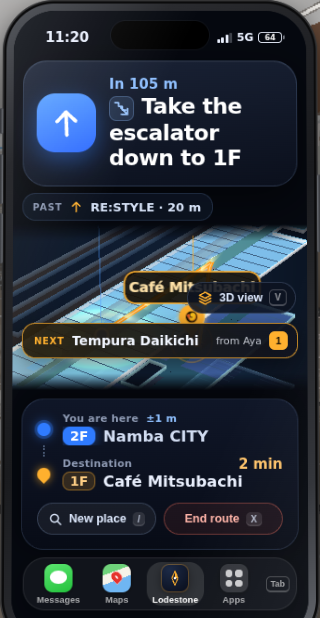
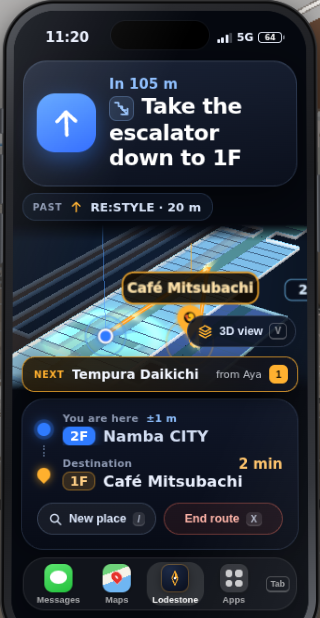
Lost in Namba v5: heading arrow + next milestone, canyon garden loop (no back-track), Aya's place link cards, Lodestone end-route / new place
Claude-Session: https://claude.ai/code/session_01DFPWmVZjWP3RarZo2JLFjj

Changed region(s): [[0.0312, 0.3689, 0.9688, 0.6456], [0.9375, 0.0, 1.0, 0.0615]]

diff --git a/namba-demo/notes/v5-nav.md b/namba-demo/notes/v5-nav.md
@@ -103,7 +103,7 @@ ctx.phone.message({ id, from, text, place: 'city_1e12' })   // any destination i
 | 15_canyon_stairs_full | canyon floor, the garden stairs ahead; glance `Stairs up — straight ahead · In 15 m · to 3F` |
 | 16_garden3_bridge_full / 17_on_bridge_full | 3F garden → `Over the glass bridge · In 20 m`; on the bridge → `Escalators up to 6F · In 45 m` |
 | 14_lodestone_canyon_step | card: `In 45 m · Through the canyon garden — the scenic way up` · THEN `Stairs up to 3F` |
-| 05 / 20_lodestone_* | trip card with New place / End route; Next chip clear of it (20 = after the lift fix; re-shot pending, see below) |
+| 05 / 20_lodestone_* | trip card with New place / End route; 20 = Next chip sitting clear above it (after the lift fix) |
 | 06 / 07 | after X: "Where to?" list (Aya's pick row 1) · glance `No route · Where to? · Aya: Café Mitsubachi` |
 | 08 / 09 | `/` + "ramen" → Enter → new route (Tonkotsu Kamikaze 6F), `PAST Drug Hikari · 25 m` |
 | 10 | arrived at the café after replacing the route (/ Esc 1) |
@@ -113,3 +113,25 @@ ctx.phone.message({ id, from, text, place: 'city_1e12' })   // any destination i
 | walk `w-p1a-list-full` | v4.3 tutorial hint sits left of the raised phone (not over it) |
 Event log of the cycle: `nav:end` → `nav:destination` (ramen, list) → `nav:destination` (café, list) → `nav:arrived`
 → `phone:link` → `nav:destination {via:'link', suggested:true}`. `ctx.errors []`, 0 console issues. loadprobe READY 16.3 s [].
+
+## Full playthrough (`node tools/walk.mjs`, crowd on, quality low)
+Pick 1 (Maps, key 1) café 24.7 s → offer 108.6 s → Lodestone 122 s → `nav:arrived city_1e12` 256.8 s → order → Aya's
+"NOW come" text (with a Daikichi link card) → pick 2 (Lodestone, key 1) 283.8 s → Parks bridge, Aya's new canyon text
+348.6 s → canyon 372 s (`discover canyon`) → **garden stairs 2F→3F @53,225 404 s** → glass bridge → 3F→6F escalators
+→ arrive 502 s → end card "Whole trip 8:22 · 661 m · 1 iced latte delivered". `ctx.errors []`; the 2 console lines
+are the bot's own `dbg` warnings. Copied shots: `walk_w-09b-glass-bridge` (on the bridge, glance `Escalators up to 6F ·
+In 55 m`), `walk_w-09-canyon`, `walk_w-p2a-list-*`, `walk_w-10b-lodestone-near-dev`, `walk_w-14-endcard`.
+Bot trip 7:04 (v4) → 8:22: the loop is +98 m (~+25 s on foot vs the v4 out-and-back) and the bot lost ~20 s stuck at
+the garden-stairs foot (52.5, 225.6) and ~15 s at the 3F escalator foot; a player walks it in ~30 s more than v4.
+
+## Unsure / for the lead
+- **Trip length:** the canyon loop costs ~+35 m / ~25 s more than v4's out-and-back. It is purposeful now (you climb
+  out of the canyon and cross it on the glass bridge), but if the 5–10 min budget gets tight, the fallback is
+  `VIAS = []` (indoor escalators only) — one line in `guidance.js`.
+- **Maps place card:** Directions sits under the photo (Maps realism); `Enter` / `1` work but the key cap is below the
+  fold on a short sheet. Lodestone's preview has the big Go.
+- **Milestone wording for "Turn left" under 30 m** has no extra side (the word is the side). Turn steps come from the
+  v3 DP-simplified path; I did not touch which turns get announced.
+- The `nav:milestone` event fires on milestone identity change only (kind / dir / level / name / position), not per metre.
+- `player:teleport` resets the Tracker, but teleport-back in probes still produced a "Rerouted" card once (05) —
+  harness artifact, not seen in the walk.
